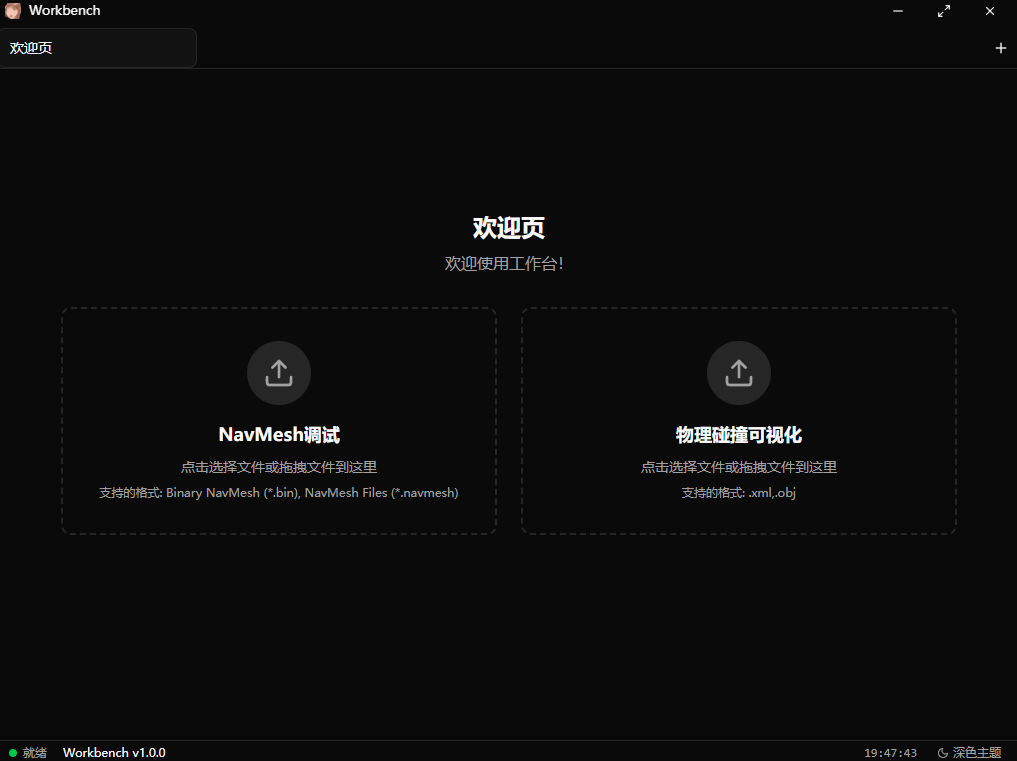
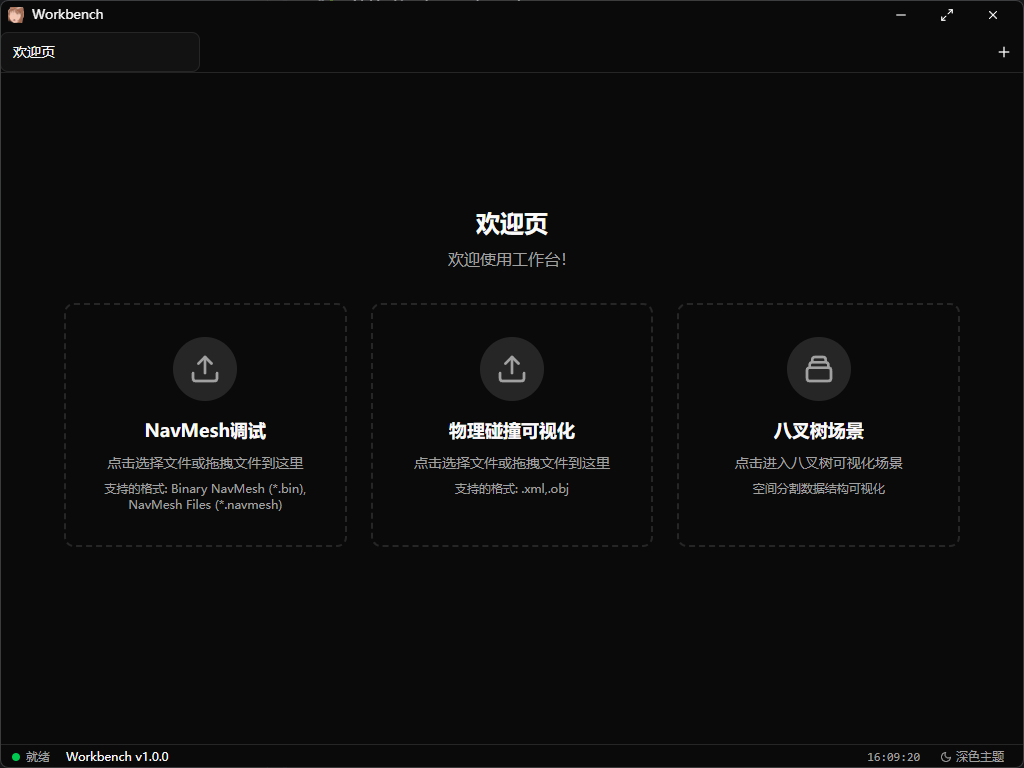
[readme] update screenshots

diff --git a/README.md b/README.md
@@ -6,5 +6,8 @@ A desktop application build with Wails.
 # Features
 
 - Navmesh debugger.
+![](./img/navmesh.png)
+- Octree Pathfinder.
+![](./img/octree.png)
 - Obj file viewer.
 
